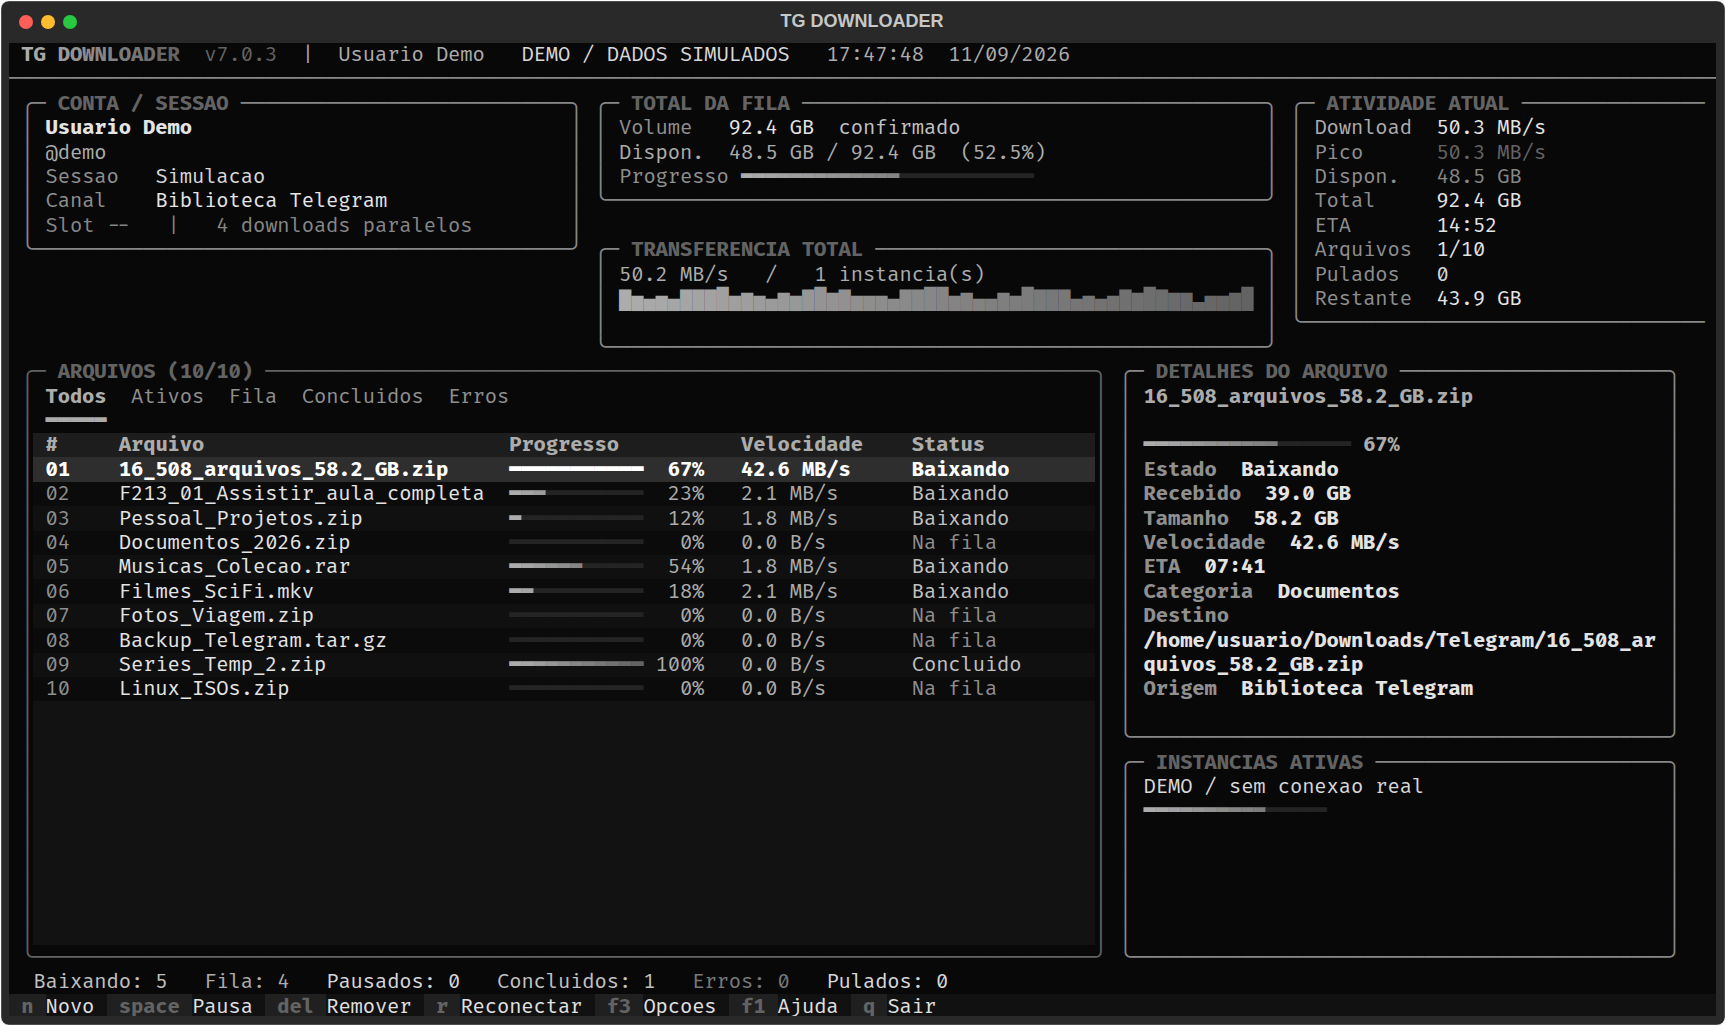
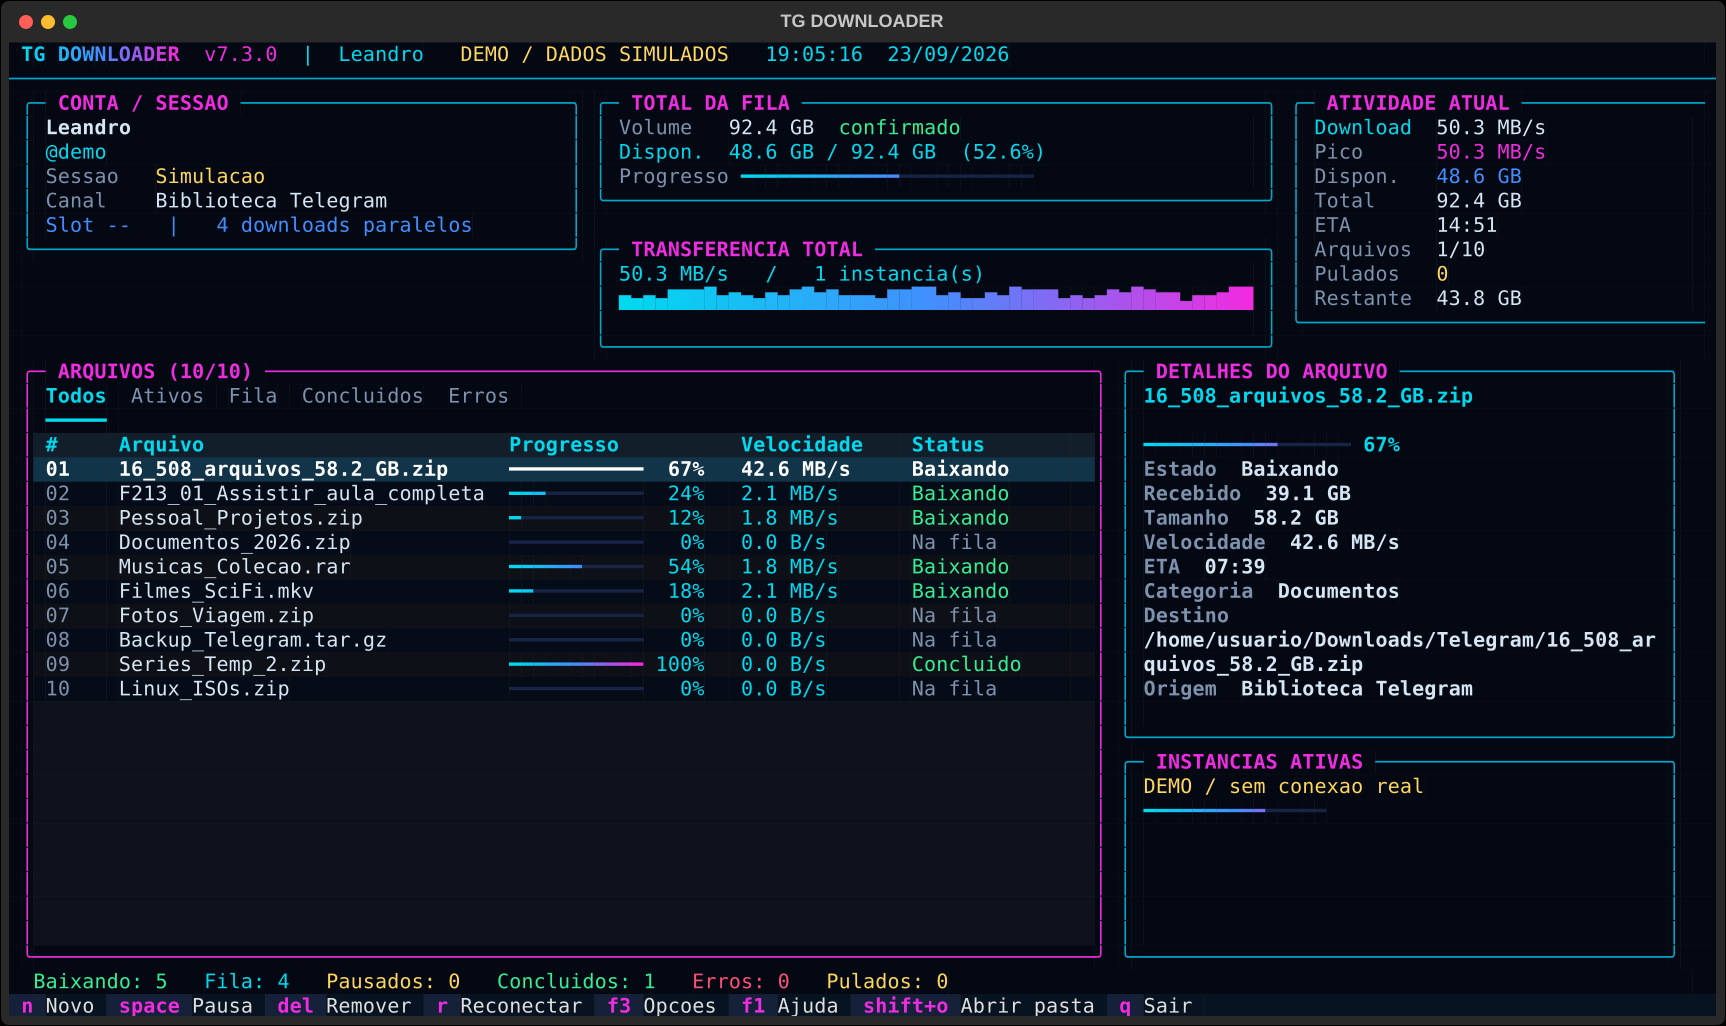
feat: open the destination folder with Shift+O

diff --git a/src/tg_downloader/app.py b/src/tg_downloader/app.py
@@ -112,13 +112,13 @@ class DownloaderApp(App):
         Binding("f3", "settings", "Opcoes"),
         Binding("slash", "search", "Buscar", show=False),
         Binding("f1,question_mark", "help", "Ajuda"),
+        Binding("O", "open_destination", "Abrir pasta", key_display="shift+o"),
         Binding("q", "request_quit", "Sair"),
         Binding("ctrl+c", "request_quit", "Sair", show=False, priority=True),
         Binding("escape", "back", "Voltar", show=False),
         Binding("1", "focus_files", "Arquivos", show=False),
         Binding("2", "details", "Detalhes", show=False),
         Binding("4", "show_instances", "Instancias", show=False),
-        Binding("o", "open_destination", "Abrir pasta", show=False),
     ]
 
     def __init__(self, demo=False, offline=False):
@@ -752,7 +752,7 @@ class DownloaderApp(App):
             "N               Novo download", "F3              Configuracoes e conta",
             "R               Reconectar usando a sessao salva",
             "1 / 2 / 4       Arquivos / detalhes / instancias",
-            "Log             Arquivo TXT na pasta de destino", "O               Abrir pasta de destino",
+            "Log             Arquivo TXT na pasta de destino", "Shift+O         Abrir pasta de destino",
             "Esc             Voltar", "Q / Ctrl+C      Sair",
         ])))
 

diff --git a/src/tg_downloader/__init__.py b/src/tg_downloader/__init__.py
@@ -1,3 +1,3 @@
 """TG Downloader: an interactive Telegram download manager."""
 
-__version__ = "7.2.0"
+__version__ = "7.3.0"

diff --git a/README.md b/README.md
@@ -39,6 +39,8 @@ organizar grandes coleções sem carregar todo o histórico do canal na memória
 - Organização automática em Fotos, Vídeos, Músicas, Áudios, Documentos,
   Legendas, GIFs, Stickers e Outros.
 - Manifesto por destino e relatório final em texto.
+- Atalho `Shift+O` no rodapé para abrir a pasta de destino no
+  gerenciador de arquivos do sistema.
 - Filtros, busca, detalhes do arquivo e controle individual da fila.
 - Suporte a várias instâncias, com serviço local compartilhado e bloqueio contra
   gravações simultâneas no mesmo destino.
@@ -137,7 +139,7 @@ Ao finalizar, o destino contém:
 | `1` | Focar a lista de arquivos |
 | `2` | Focar os detalhes do arquivo |
 | `4` | Focar o painel de instâncias |
-| `O` | Abrir a pasta de destino |
+| `Shift+O` | Abrir a pasta de destino |
 | `R` | Reconectar usando a sessão salva |
 | `F3` | Configurações e conta |
 | `F1` ou `?` | Mostrar a ajuda integrada |
